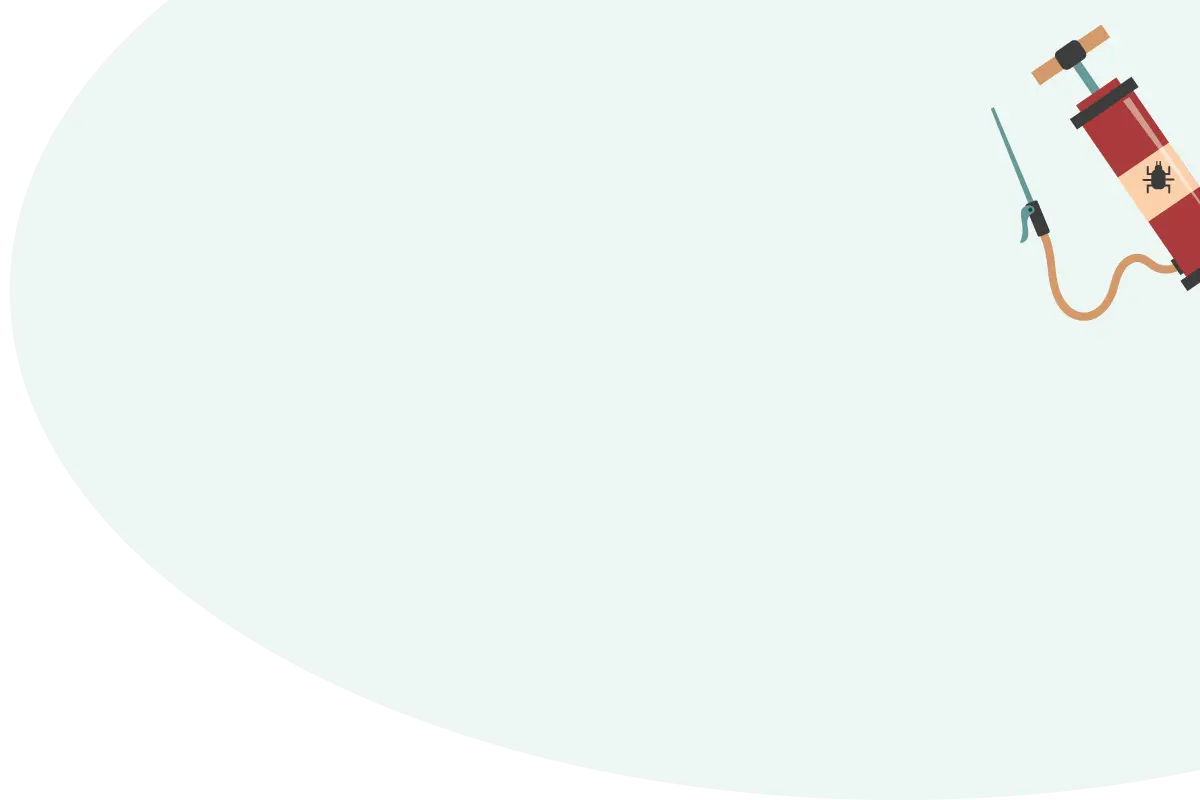
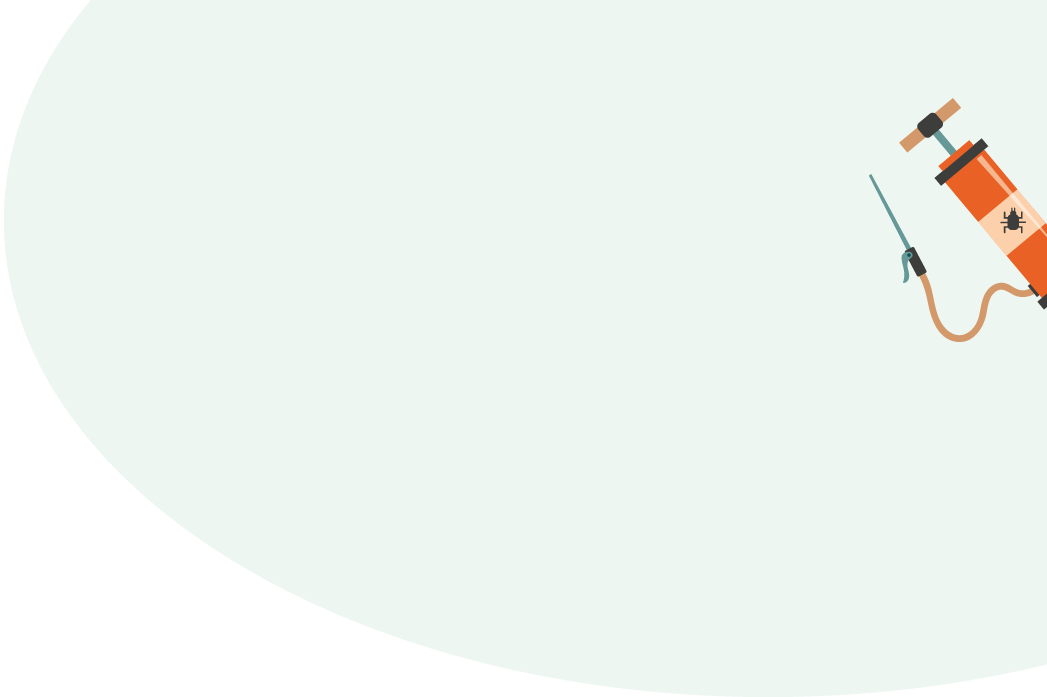
поменял картинки на стартовой

Changed region(s): [[0.8252, 0.0301, 1.0, 0.5122]]

diff --git a/src/styles/utilities.scss b/src/styles/utilities.scss
@@ -15,9 +15,9 @@ code {
 }
 
 .bg-gradient-to-tl {
-  background-image: linear-gradient(184.78deg, #FE6019 7.64%, #fee140 120.07%);
+  background-image: linear-gradient(184.78deg, #fe6019 7.64%, #fee140 120.07%);
 }
 
 .bg-gradient {
-  background-image: linear-gradient(184.78deg, #0AA8A7 7.64%, #EDF6F5 120.07%);
+  background-image: linear-gradient(184.78deg, #fe6019 7.64%, #fee140 120.07%);
 }
